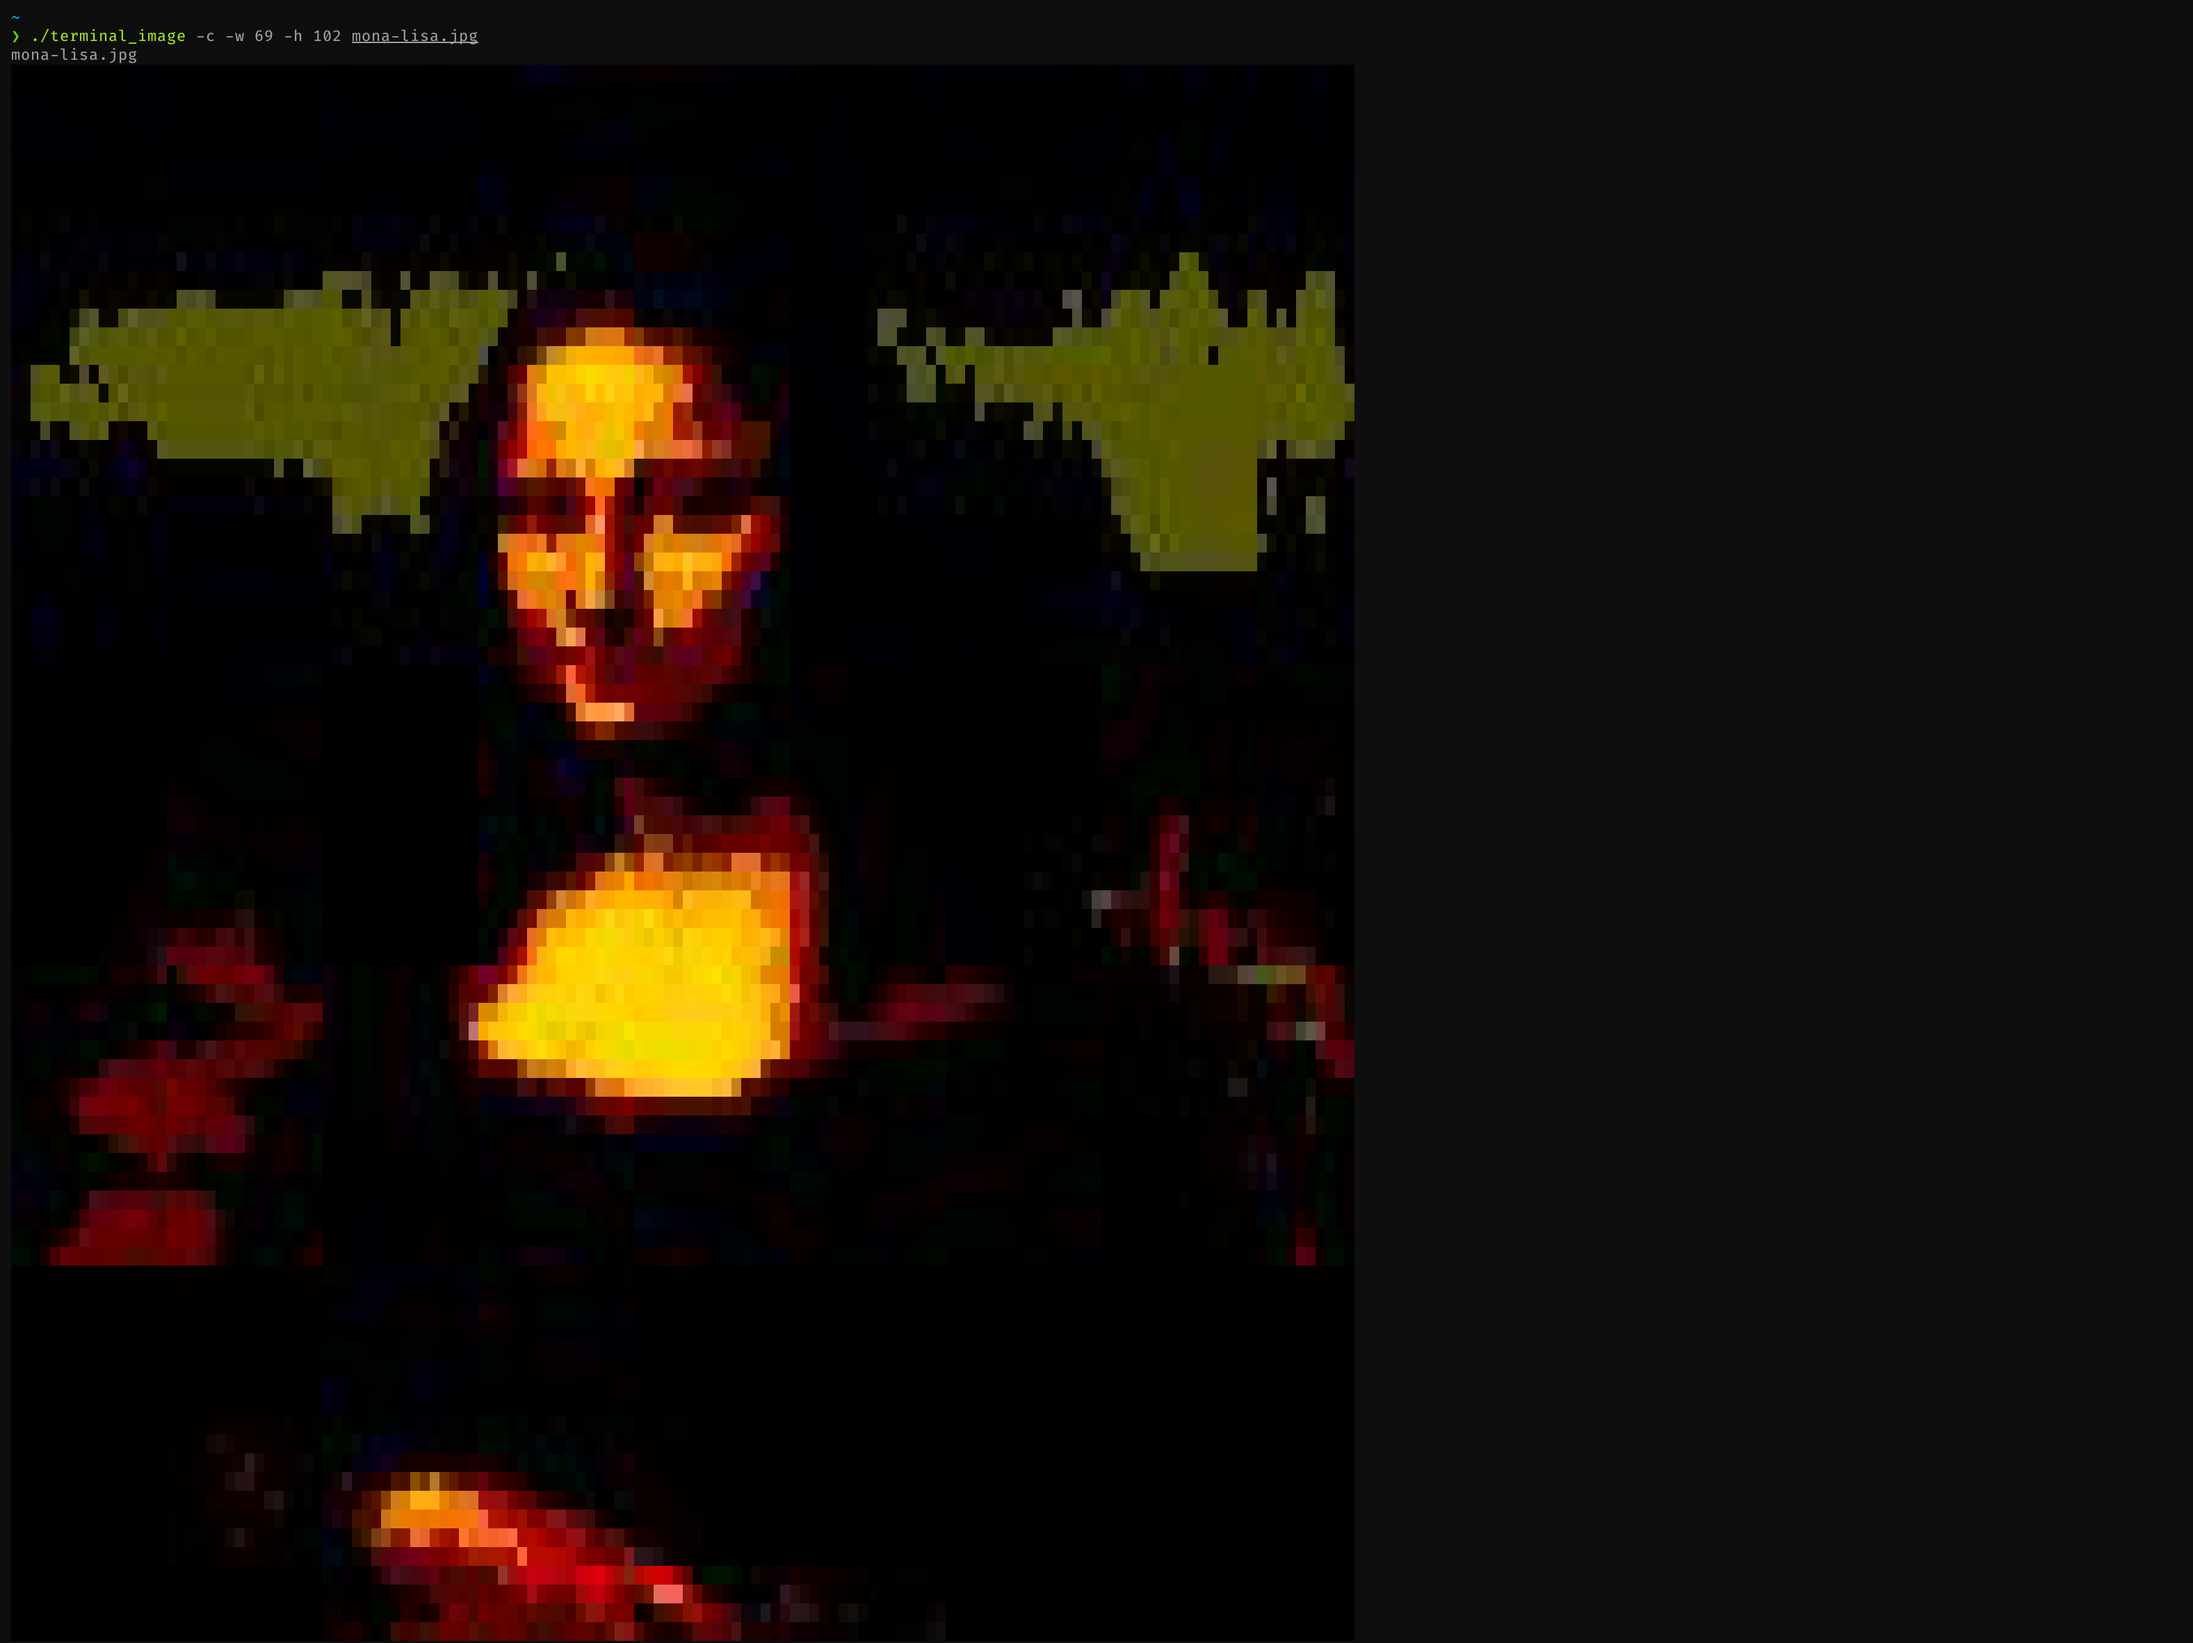
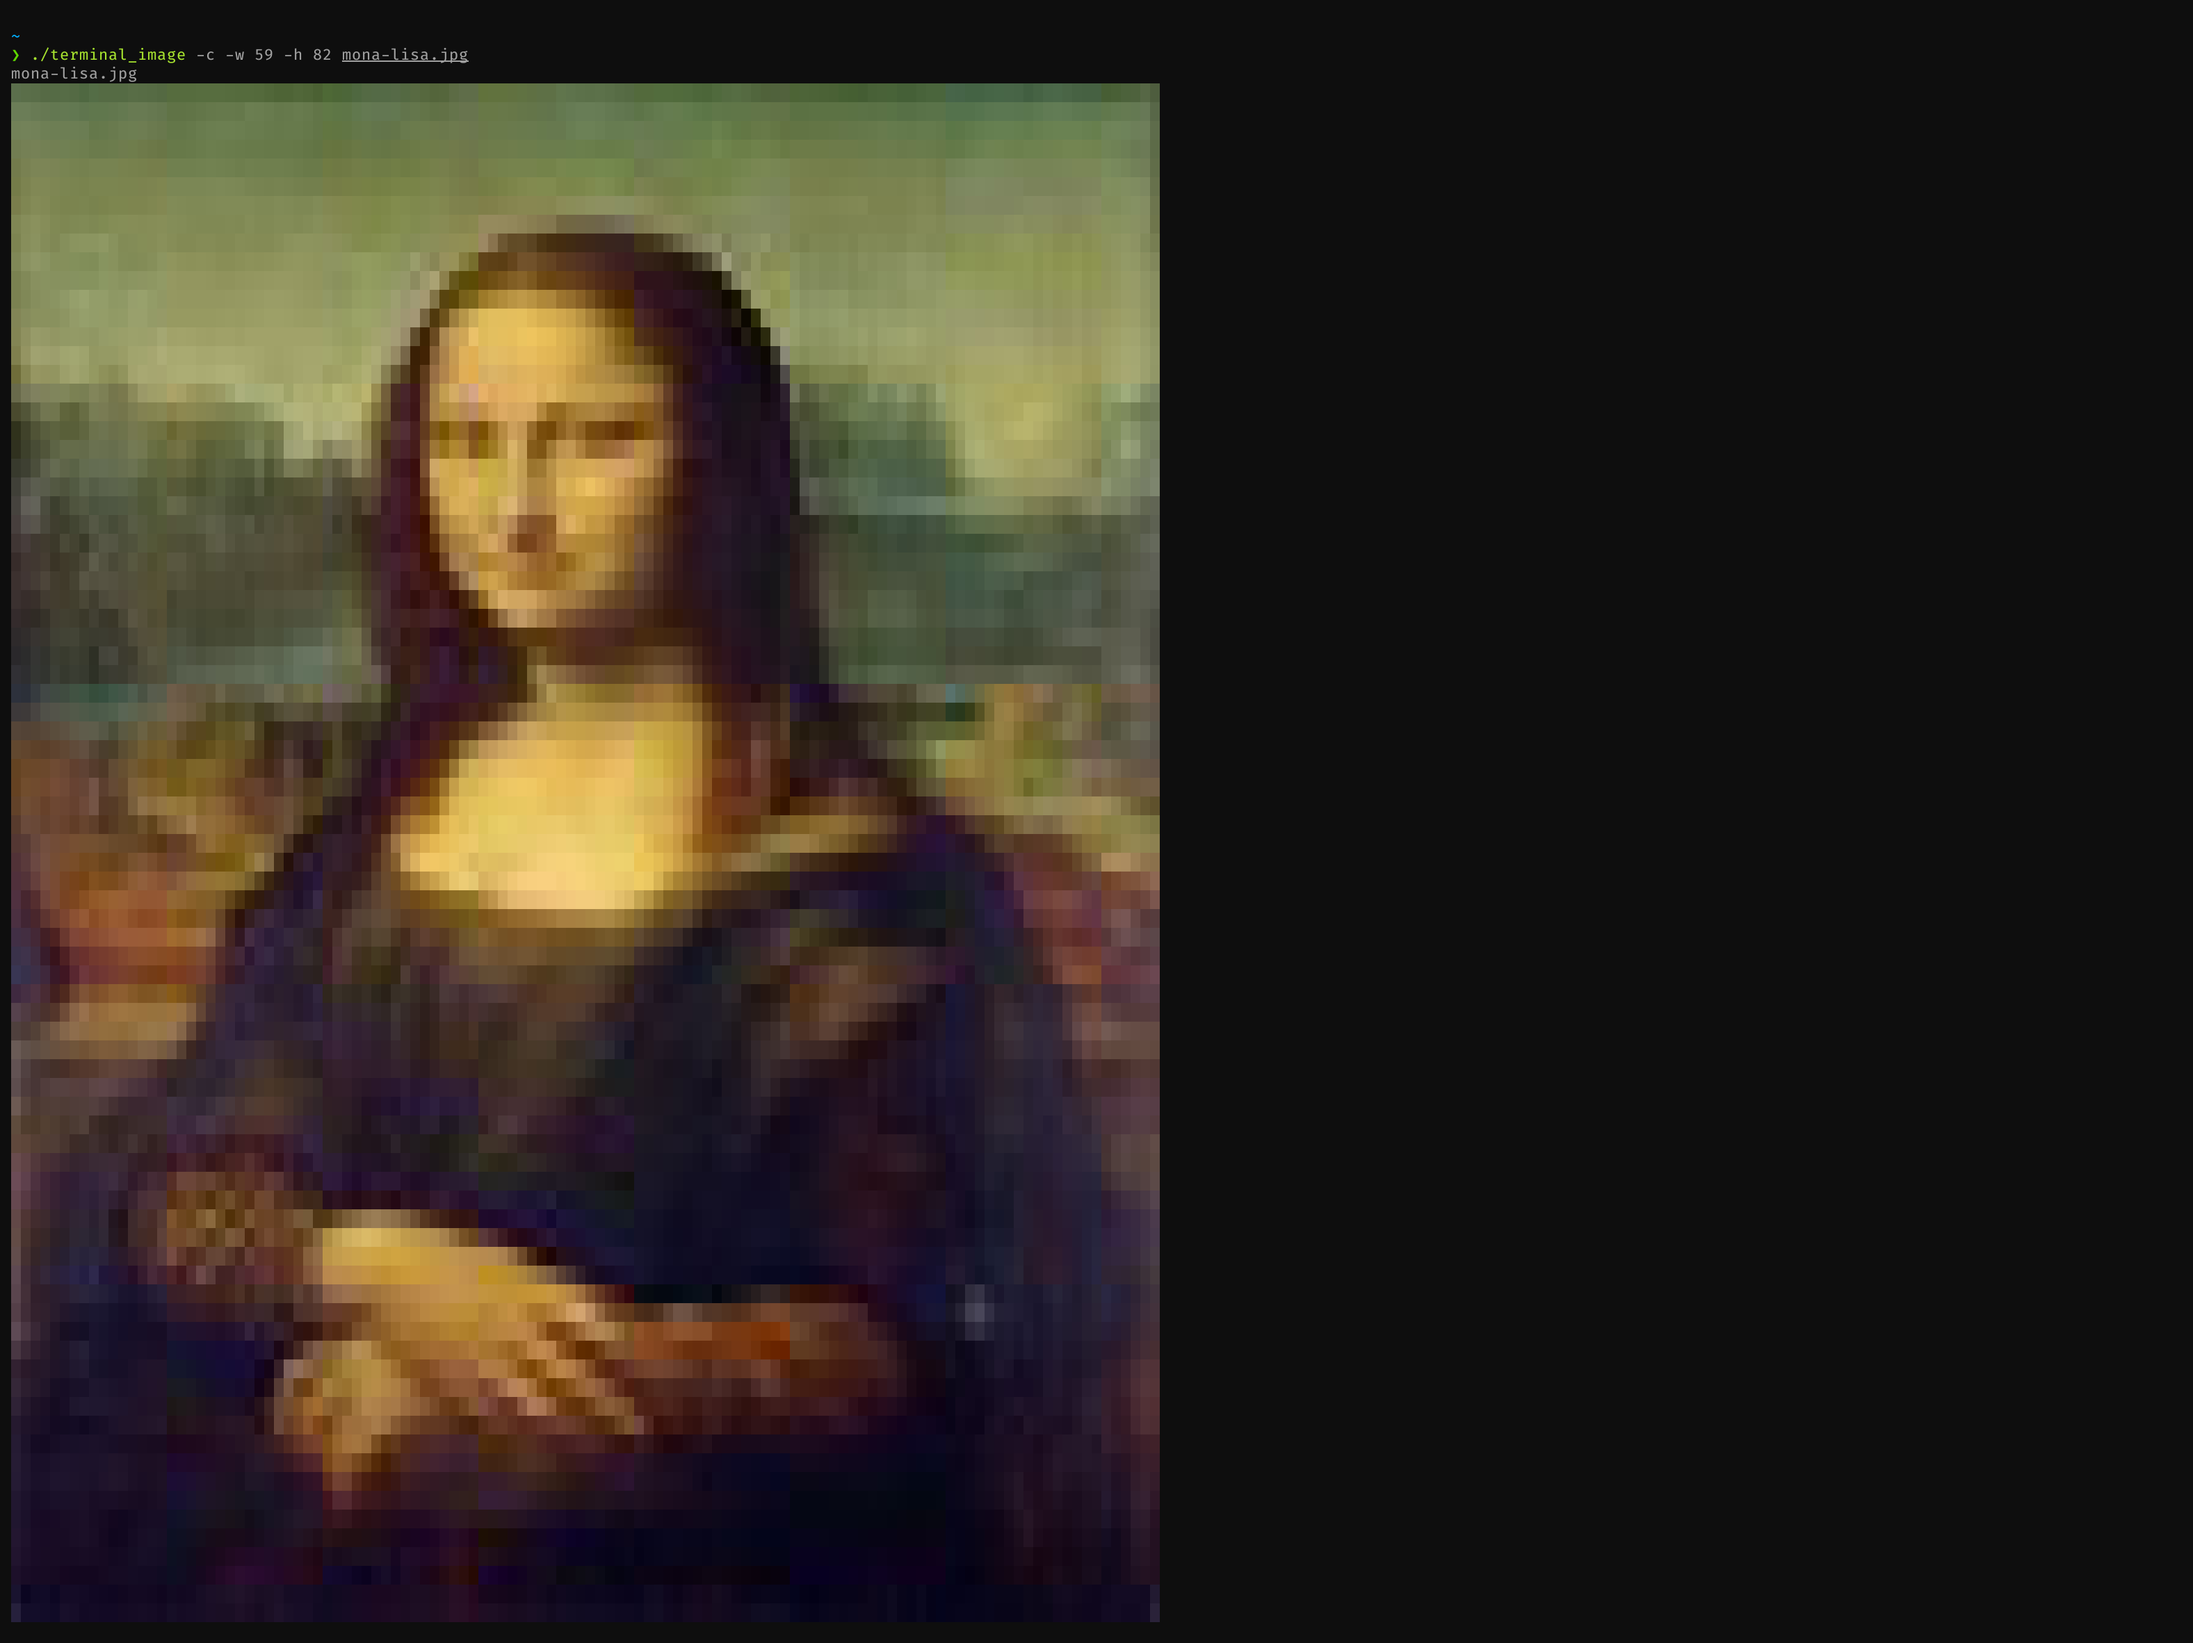
improve color output - update examples

diff --git a/src/main.c b/src/main.c
@@ -74,11 +74,6 @@ int main (int argc, char *argv[]){
 }
 
 int process_image(int resize_width, int resize_height, char *colorspace, char *image, char *output_name){
-  int number_of_colors = 16;
-  int tree_depth = 1;
-  int brightness = 0;
-  int contrast = 50;
-
   // initialize MagickWand
   MagickWand *m_wand = NULL;
   MagickWandGenesis();
@@ -90,16 +85,18 @@ int process_image(int resize_width, int resize_height, char *colorspace, char *i
   // resize the image
   MagickResizeImage(m_wand, resize_width, resize_height, LanczosFilter);
 
-  if (strcmp(colorspace, "color") == 0){
-    // convert the image to RGBColorspace
-    MagickQuantizeImage(m_wand, number_of_colors, RGBColorspace, tree_depth, NoDitherMethod, MagickFalse);
-  } else {
-      // convert the image to Grayscale
-      MagickQuantizeImage(m_wand, number_of_colors, GRAYColorspace, tree_depth, NoDitherMethod, MagickFalse);
-  }
+  if (strcmp(colorspace, "grayscale") == 0){
+    int number_of_colors = 16;
+    int tree_depth = 1;
+    int brightness = 0;
+    int contrast = 50;
+      
+    // convert the image to Grayscale
+    MagickQuantizeImage(m_wand, number_of_colors, GRAYColorspace, tree_depth, NoDitherMethod, MagickFalse);
 
-  // increate the contrast
-  MagickBrightnessContrastImage(m_wand, brightness, contrast);
+    // increate the contrast
+    MagickBrightnessContrastImage(m_wand, brightness, contrast);
+  }
 
   // set image depth to 8 after other transformations - mostly to help get correct RGB pixel values
   MagickSetImageDepth(m_wand, 8);
@@ -170,7 +167,7 @@ int display_image(int width, int height, char *colorspace, unsigned char *buffer
         red = buffer[i-1];
         green = buffer[i];
         blue = buffer[i+1];
-        text = "0";
+        text = " ";
 
         // print truecolor string with the current pixel's RGB value
         // '\x1b[48;2;%d;%d;%dm' sets the background color 
